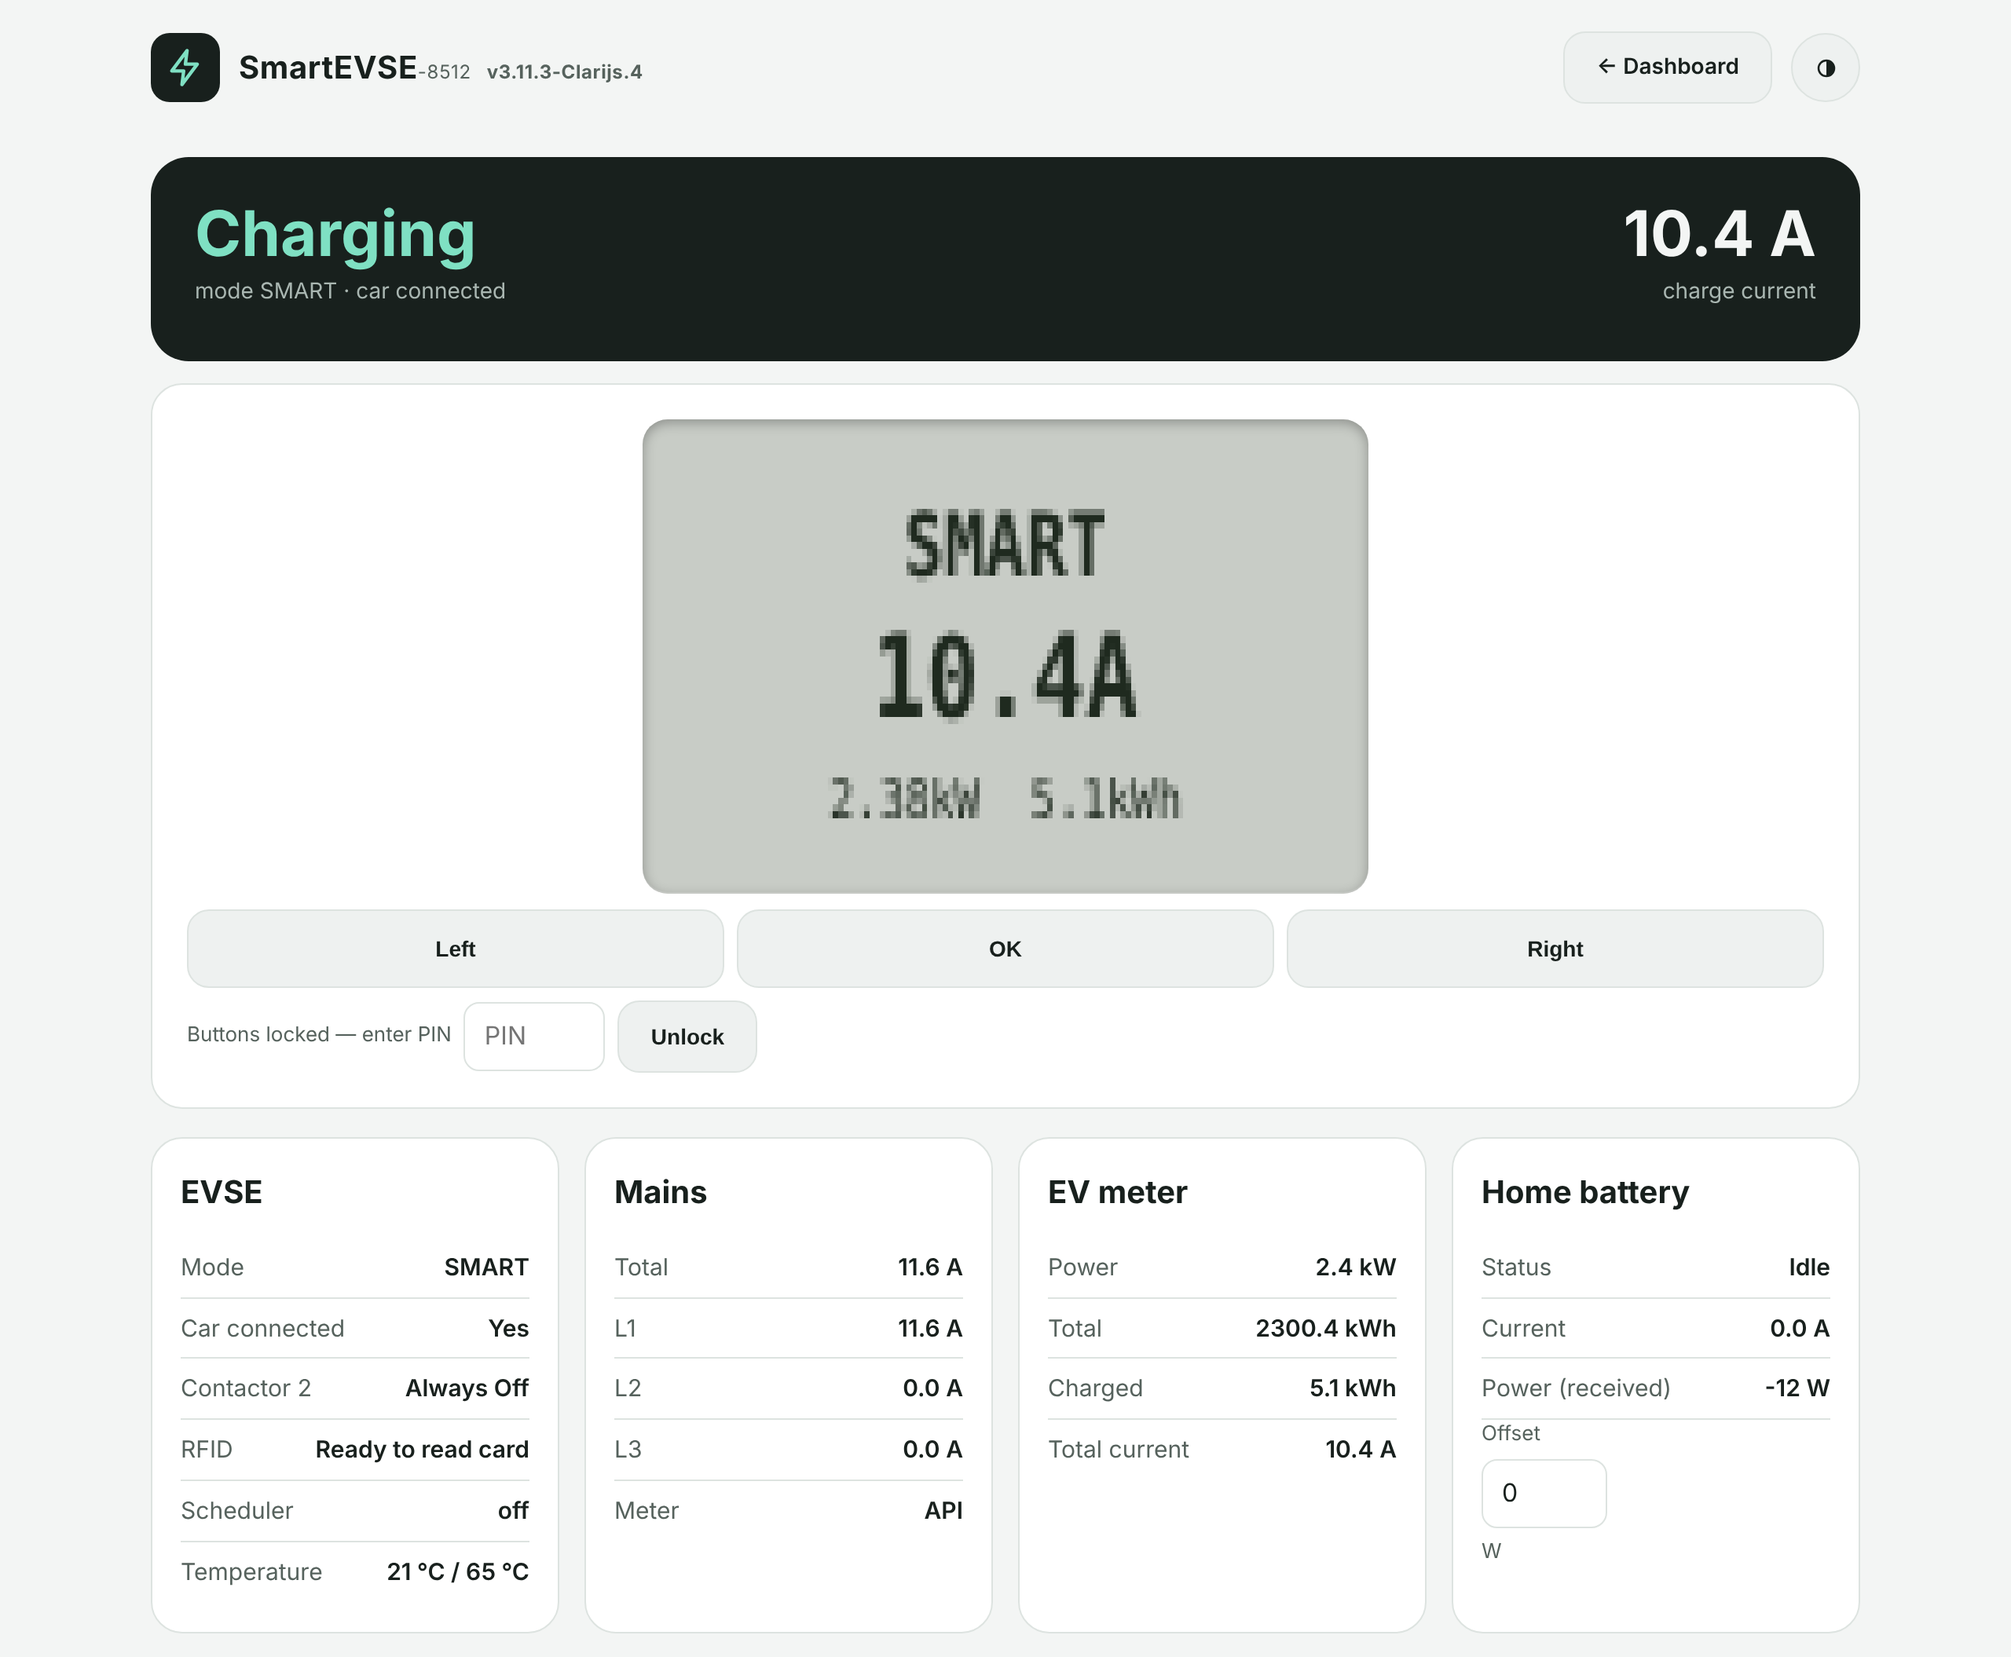
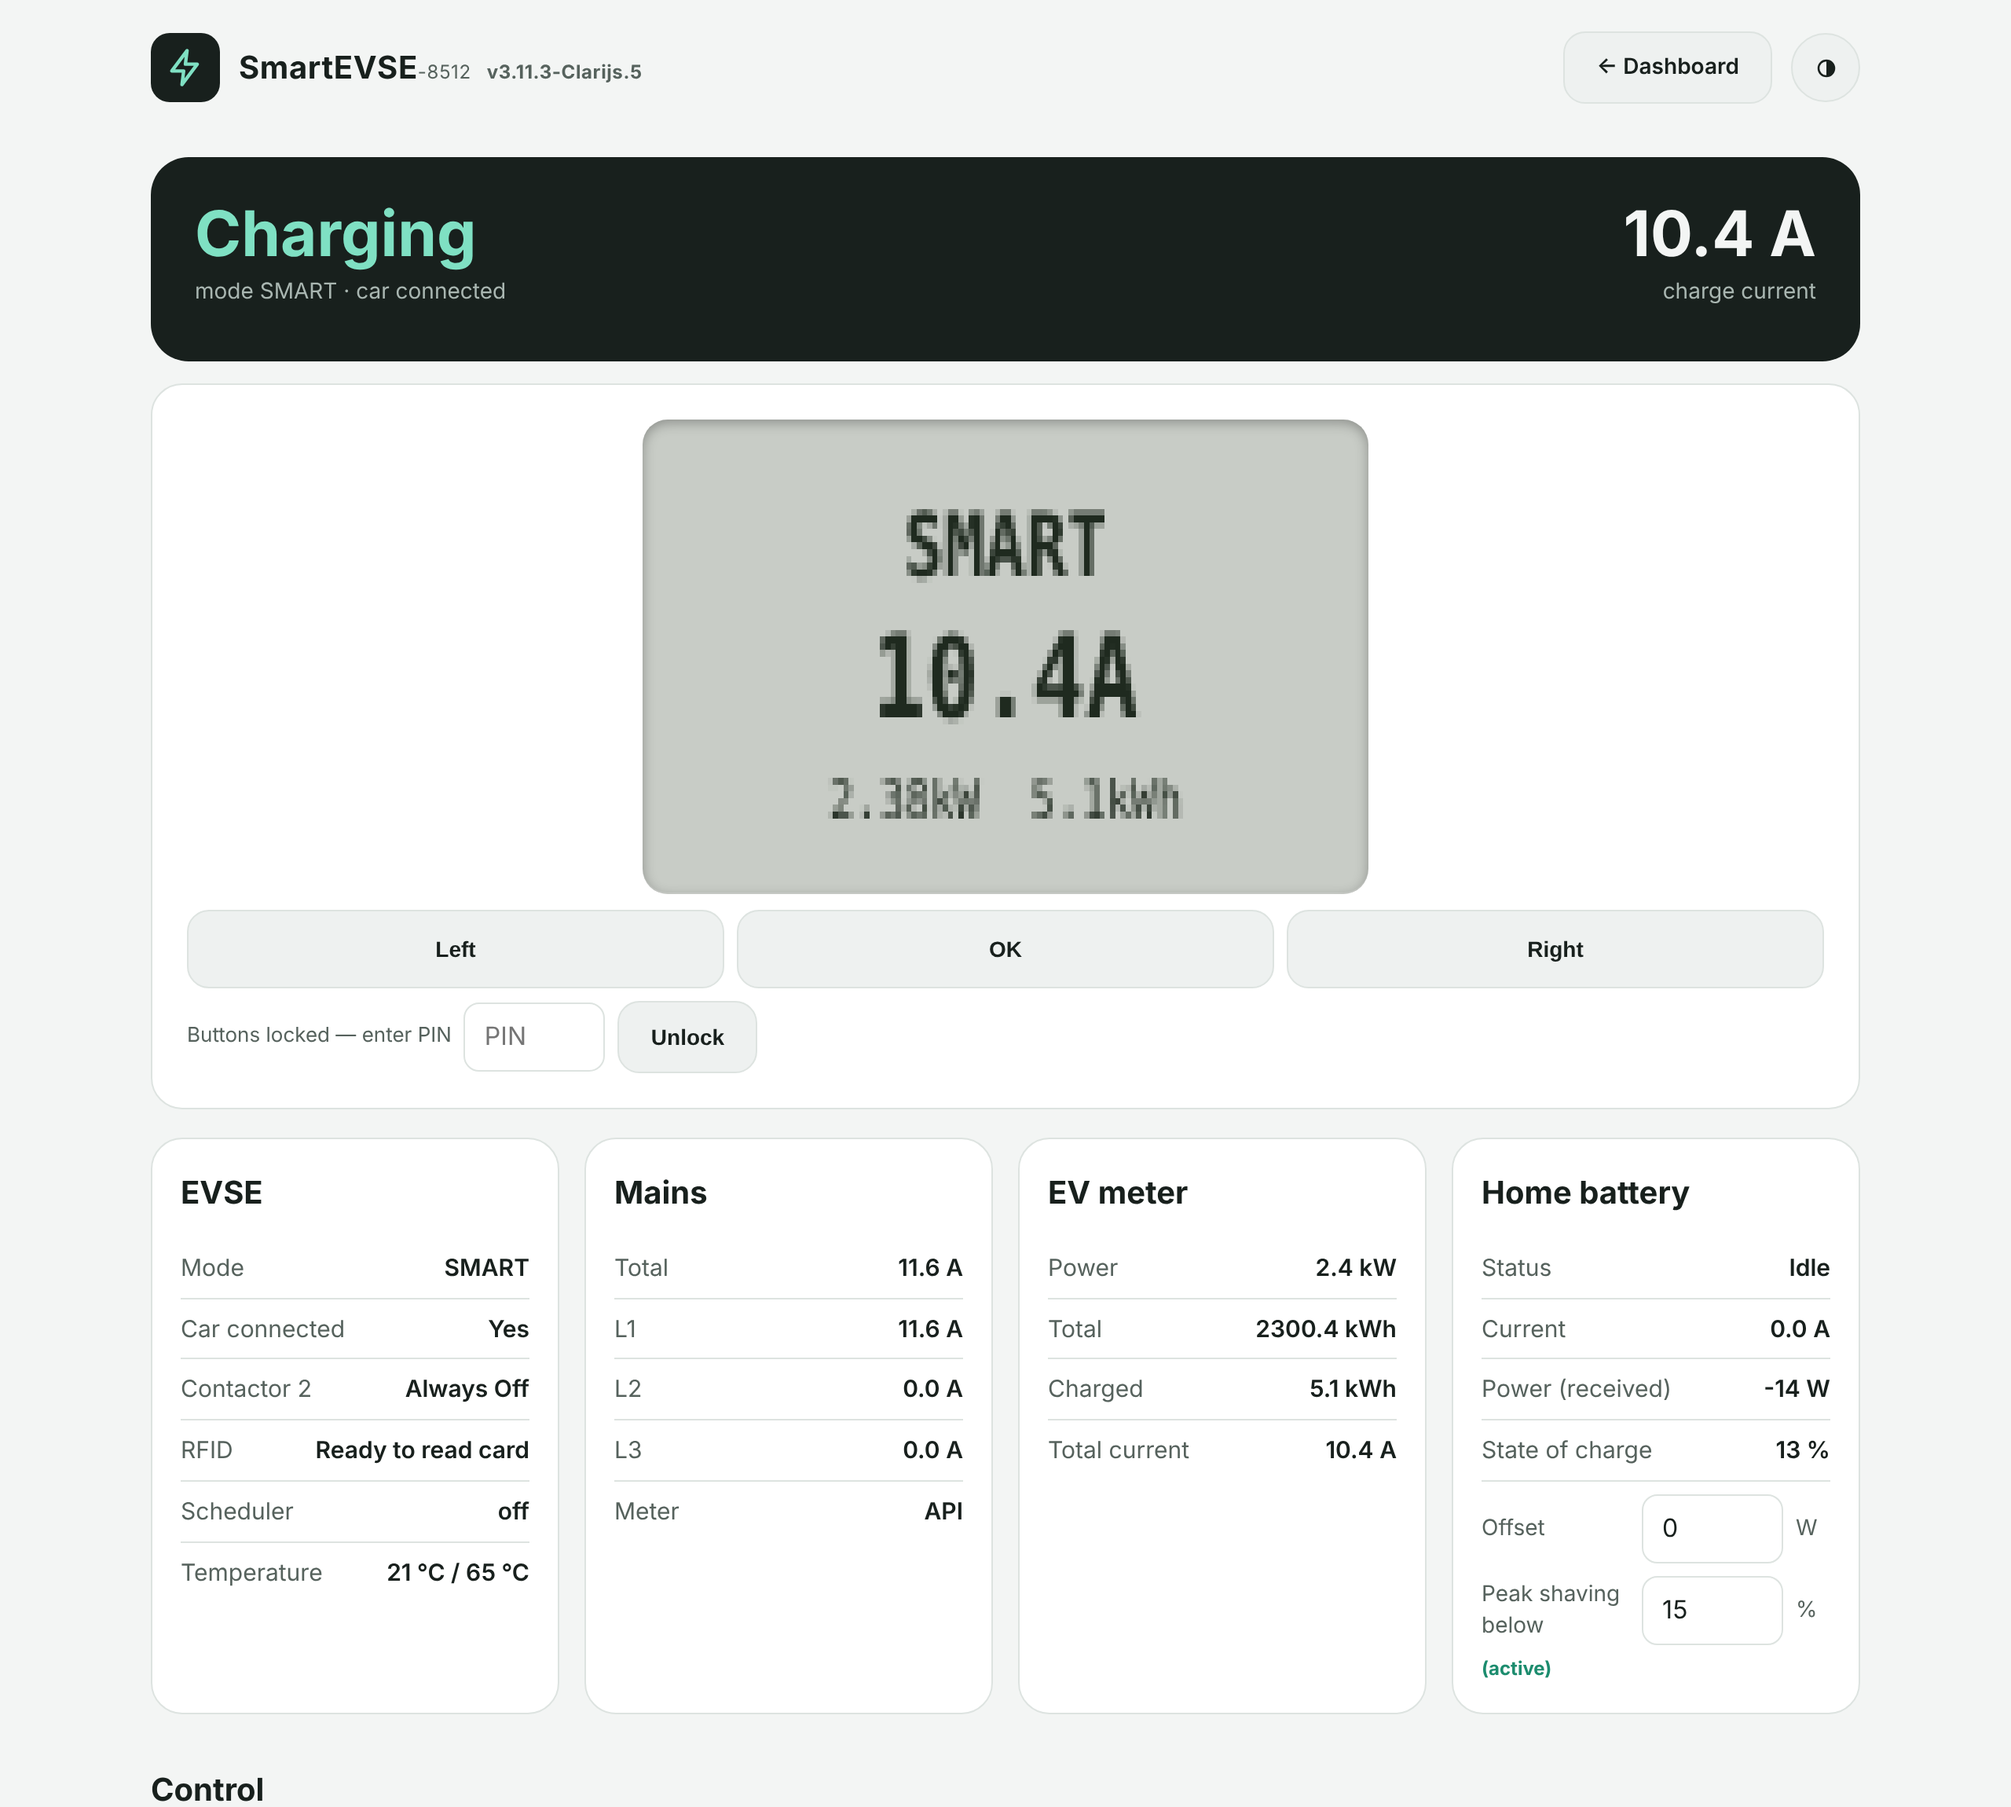
README: new screenshots (Clarijs.5) incl. Capacity page
Claude-Session: https://claude.ai/code/session_01YPtdk1TSr5S9wUyT9K4QHN

diff --git a/README.md b/README.md
@@ -50,6 +50,10 @@ Everything else is under **All settings**. Light and dark, on a phone or a compu
 |---|---|
 | <img src="pictures/clarijs/all-settings-light.png" alt="All settings page, light" width="400"> | <img src="pictures/clarijs/all-settings-dark.png" alt="All settings page, dark" width="400"> |
 
+**Capacity** (All settings → Capacity): mode, margin under your monthly peak and CAP STOP:
+
+<img src="pictures/clarijs/capacity.png" alt="Capacity page: Peak mode, margin and CAP STOP" width="600">
+
 *Screenshots with sample data.*
 
 # Pick your path

diff --git a/docs/clarijs/guide-capacity-tariff.md b/docs/clarijs/guide-capacity-tariff.md
@@ -163,6 +163,8 @@ the charger keeps its own value.
 Check `GET /settings`: `capacity_peak_month` should show your meter's peak and `capacity_voltage`
 the measured voltage.
 
+<img src="../../pictures/clarijs/capacity.png" alt="Capacity page: Peak mode, margin and CAP STOP" width="600">
+
 ## 5. What to expect
 
 - At the start of a month the peak is 2500 W (the minimum). It rises automatically when the meter
